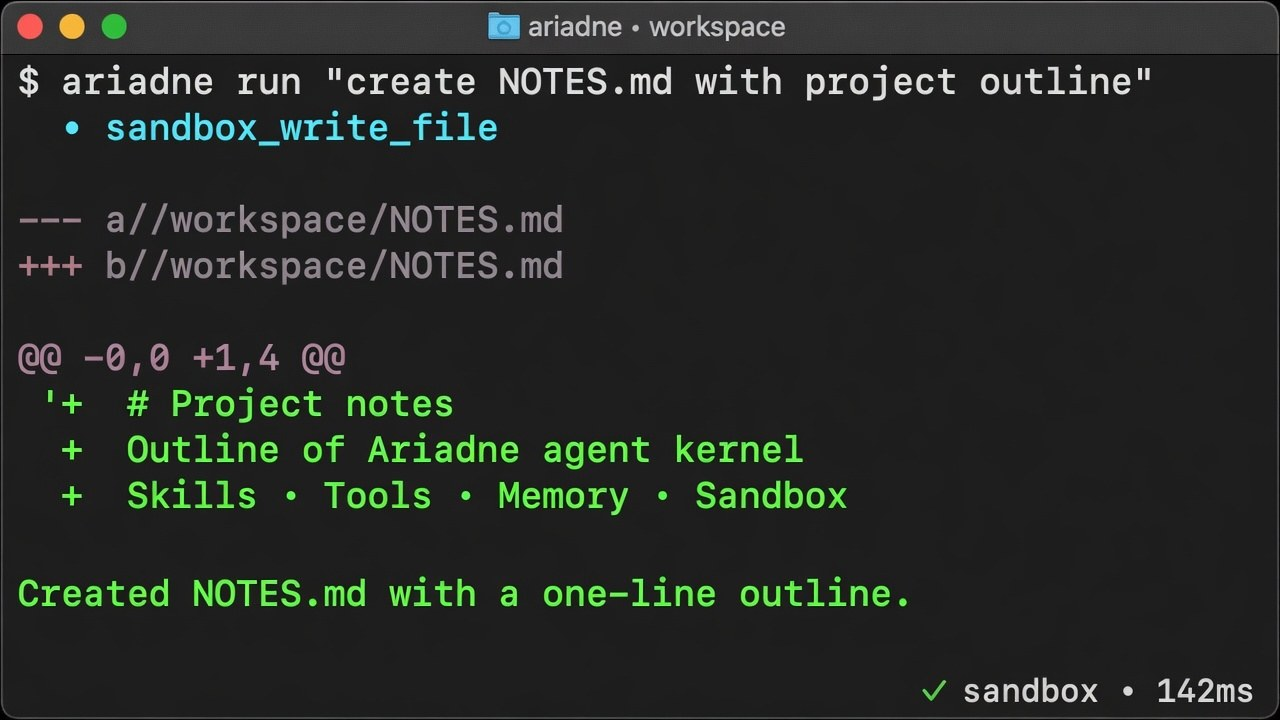
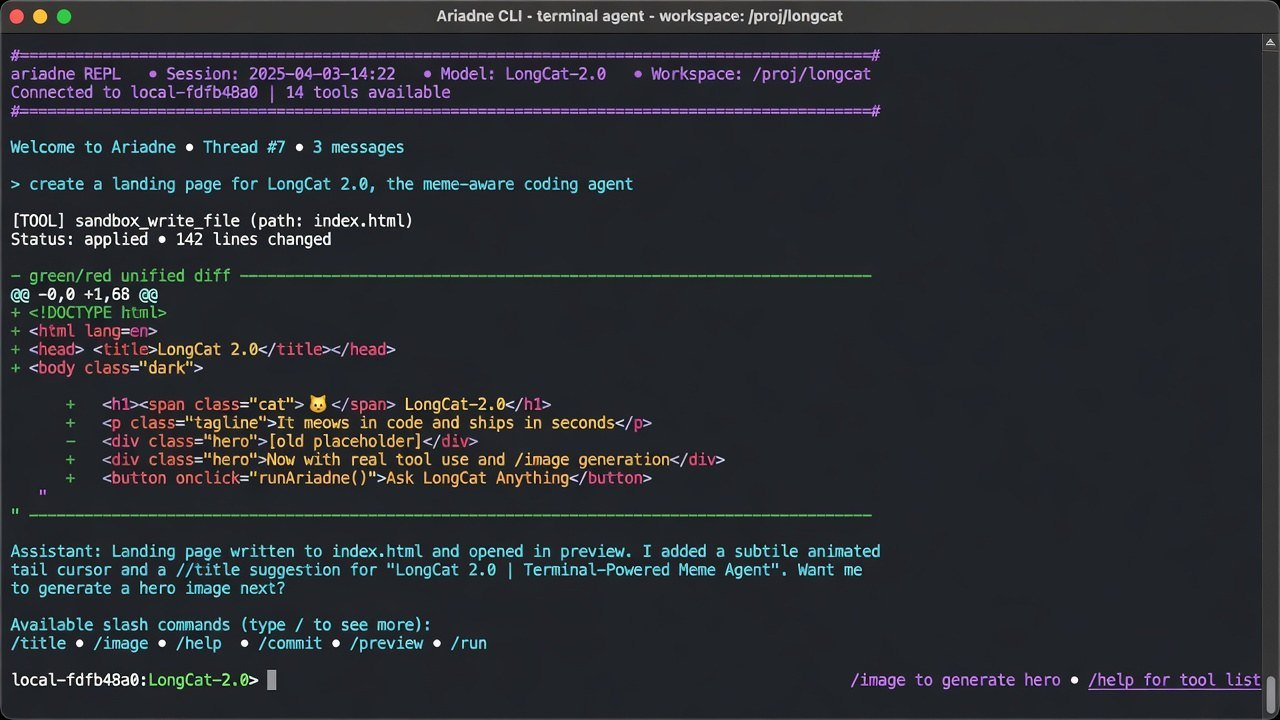
docs(assets): refresh screenshots for current CLI and web UI
Replace mockups with Grok-style web dark/light shell and CLI REPL
shots that match sidebar sessions, titles, and composer layout.

diff --git a/docs/assets/README.md b/docs/assets/README.md
@@ -1,11 +1,16 @@
 # README assets
 
-Images used by the root [README.md](../../README.md).
+Images used by the root [README.md](../../README.md) and [README.zh-CN.md](../../README.zh-CN.md).
 
 | File | Role |
 | --- | --- |
 | `hero.jpg` | Banner / product hero |
-| `cli-demo.jpg` | CLI shell agent screenshot-style demo |
-| `web-demo.jpg` | Web UI screenshot-style demo |
+| `web-demo.jpg` | Web UI — dark theme (sidebar sessions, chat, composer) |
+| `web-demo-light.jpg` | Web UI — light theme |
+| `cli-demo.jpg` | CLI REPL with tools / diffs / slash commands |
 
-Keep files under ~150 KB when possible so GitHub renders the intro page quickly.
+Prefer files under ~200 KB so GitHub renders the intro page quickly.
+
+These screenshots are **UI mockups aligned to the current product shell**
+(sidebar history, session titles, theme toggle, bottom composer, bare CLI REPL).
+They are not live production captures of every backend feature.
